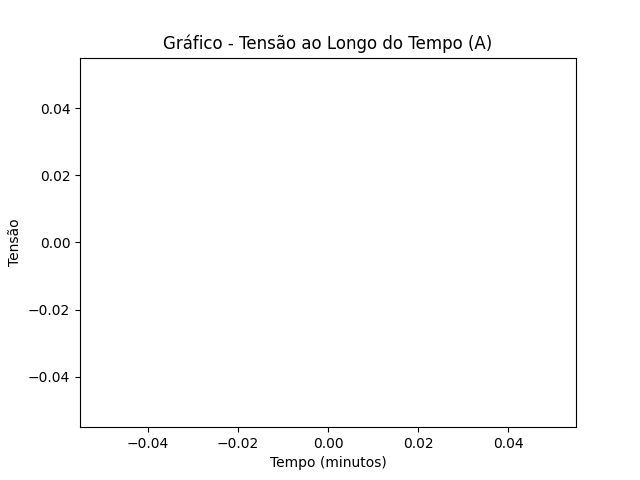
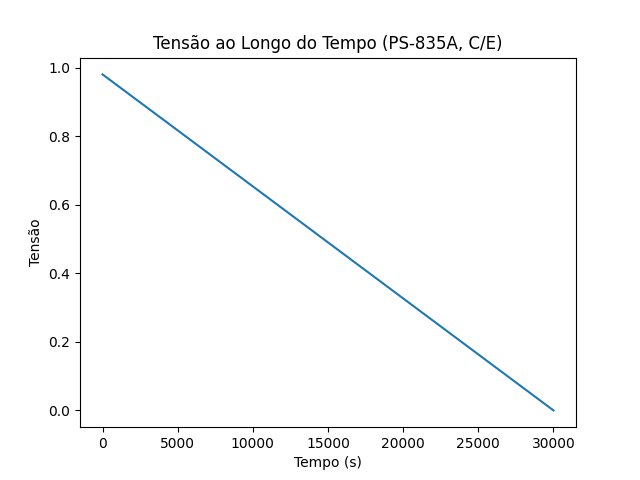
Simulações
O gráfico não está sendo gerado corretamente (conforme o simulado em laboratório). Portanto, deu-se inicio a modificações elementares e a procura pelo erro no código-fonte

diff --git a/Sensor_Tens_o/Teste.py b/Sensor_Tens_o/Teste.py
@@ -14,11 +14,11 @@ import matplotlib.pyplot as plt
 from reportlab.pdfgen import canvas
 from reportlab.lib.pagesizes import letter
 import time
-from serial.tools import list_ports
+from serial.tools.list_ports import comports
 
 def auto_select_serial_port():
     # Função para selecionar automaticamente a porta serial
-    ports = serial.tools.list_ports.comports()
+    ports = comports()
 
     print("Portas seriais disponíveis:")
     for port, desc, hwid in sorted(ports):
@@ -61,7 +61,7 @@ def read_and_plot_data(modelo, tempo_total_segundos, com_port):
 
     finally:
         ser.close()
-        plot_graph(tempo_total, tensao_total, f'Gráfico - Tensão ao Longo do Tempo ({modelo})')
+        return tempo_total, tensao_total
 
 def plot_graph(tempo, tensao, title):
     # Função para plotar o gráfico
@@ -82,14 +82,13 @@ def run_experiment():
 
     modelo = input("Digite o modelo (PS-835A, C/E ou PS-835B, D/F/G): ")
     if modelo in ["PS-835A, C/E", "PS-835B, D/F/G"]:
-        tempo_total_segundos = 45 * 60 if modelo == "PS-835A, C/E" else 90 * 60
+        tempo_total_segundos = 1 * 60 if modelo == "PS-835A, C/E" else 90 * 60
         tempo_total, tensao_total = read_and_plot_data(modelo, tempo_total_segundos, com_port)
+        titulo = f"Tensão ao Longo do Tempo ({modelo})"
+        observacao = input("O.B.S: ")
+        generate_pdf(nome, fabricante, p_n, s_n, modelo, titulo, tempo_total, tensao_total, observacao)
     else:
         print("Modelo inválido. Escolha entre PS-835A, C/E ou PS-835B, D, F & G.")
-        return
-
-    titulo = f"Tensão ao Longo do Tempo ({modelo})"
-    observacao = input("O.B.S: ")
 
 def generate_pdf(nome, fabricante, p_n, s_n, modelo, titulo, tempo, tensao, observacao):
     # Função para gerar o PDF
@@ -101,7 +100,9 @@ def generate_pdf(nome, fabricante, p_n, s_n, modelo, titulo, tempo, tensao, obse
     pdf.drawString(72, 750, f"Nome: {nome}")
     pdf.drawString(72, 735, f"Fabricante: {fabricante}")
     pdf.drawString(72, 720, f"P/N: {p_n}")
-    pdf.drawString(72, 705, f"S/N: {s_n}")
+    pdf.drawString(72, 705, f"S/N: {s_n}") 
+    pdf.drawString(72, 705, f"O.B.S: {observacao}") 
+
     pdf.drawString(72, 690, f"Modelo: {modelo}")
 
     pdf.drawString(72, 660, f"Gráfico - {titulo}")
@@ -118,9 +119,6 @@ def generate_pdf(nome, fabricante, p_n, s_n, modelo, titulo, tempo, tensao, obse
     pdf.drawInlineImage("temp_plot.png", 72, 400, width=400, height=300)
 
     pdf.save()
-
-    # Gera o PDF
-    generate_pdf(nome, fabricante, p_n, s_n, modelo, titulo, tempo_total, tensao_total, observacao)
 
 # Chama a função para iniciar o experimento
 run_experiment()
